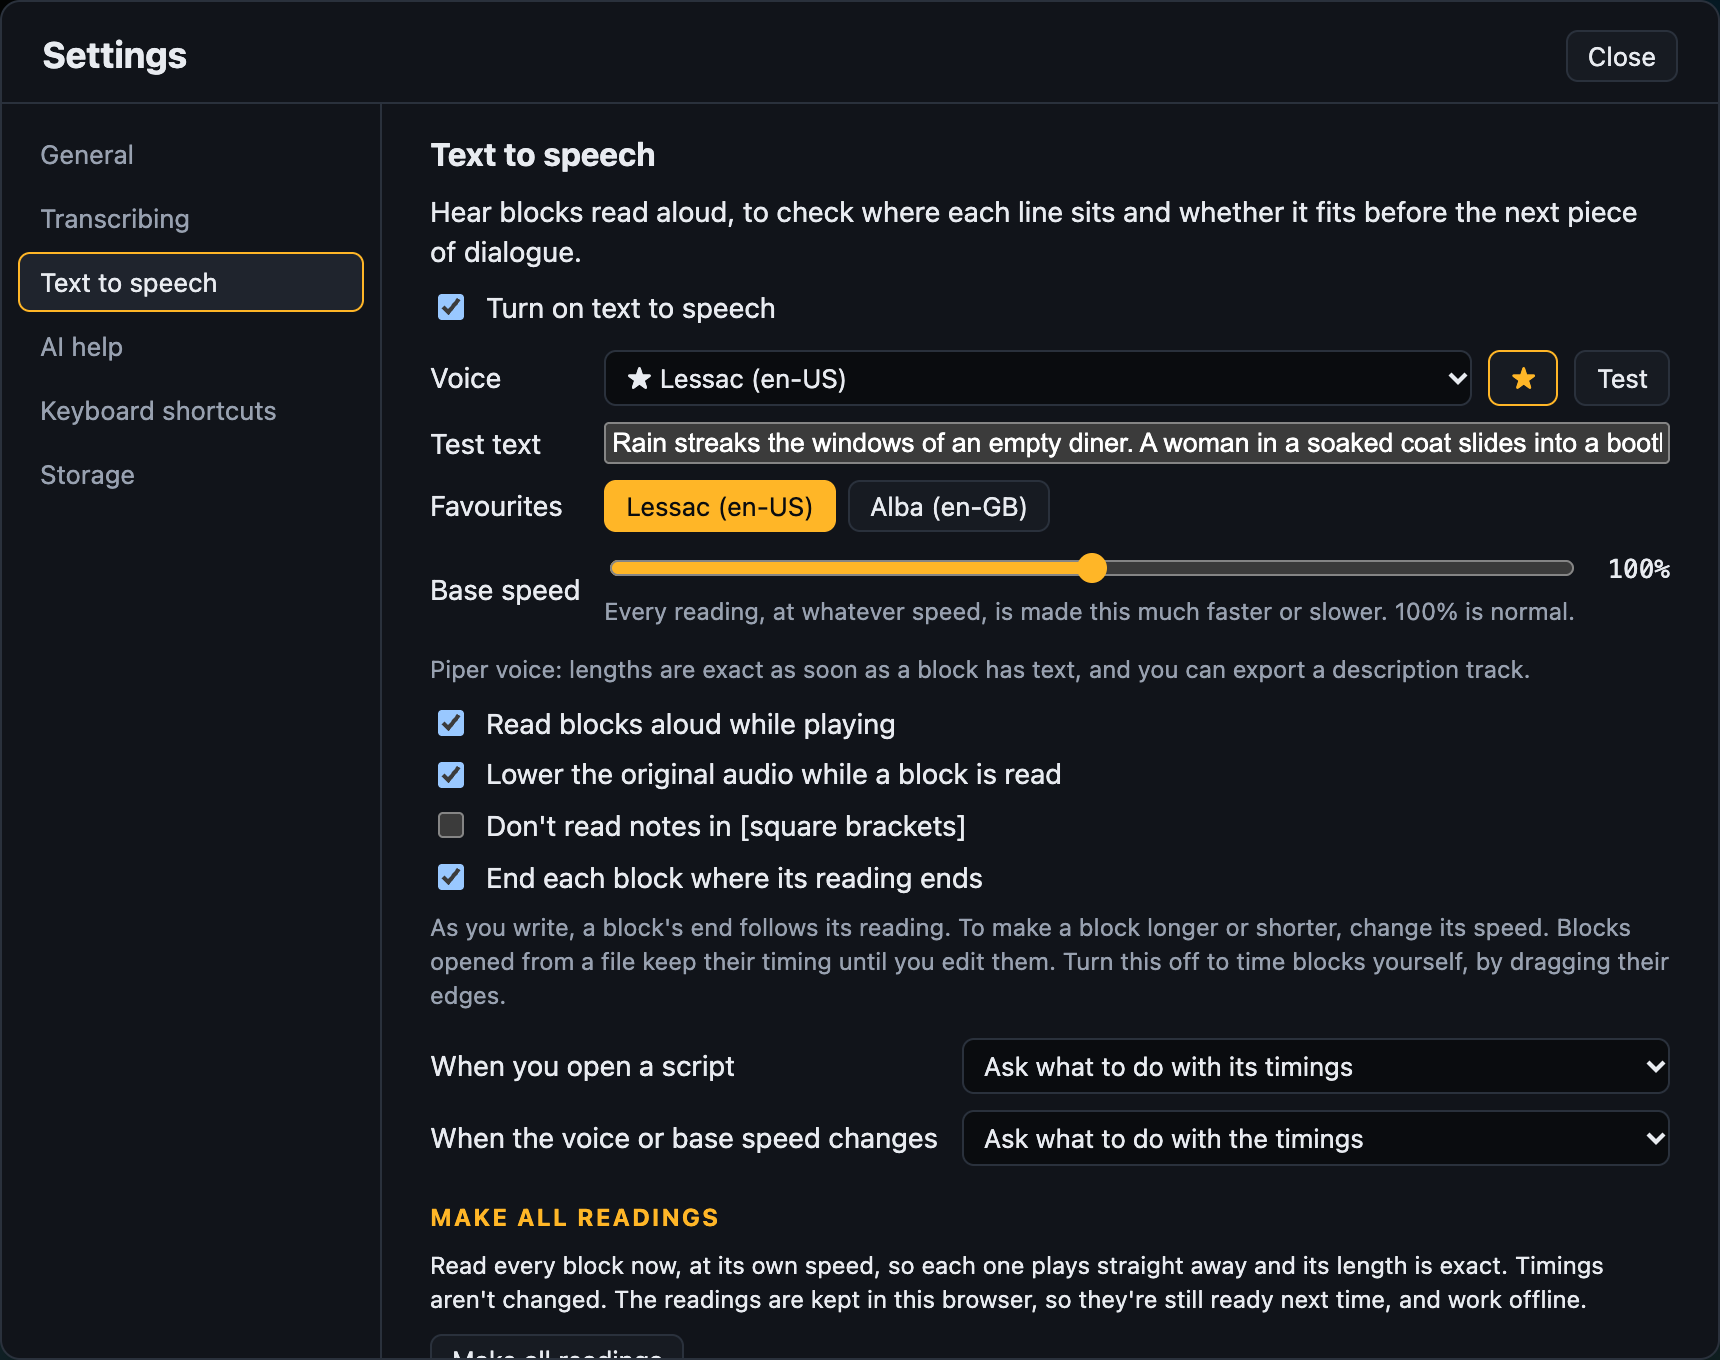
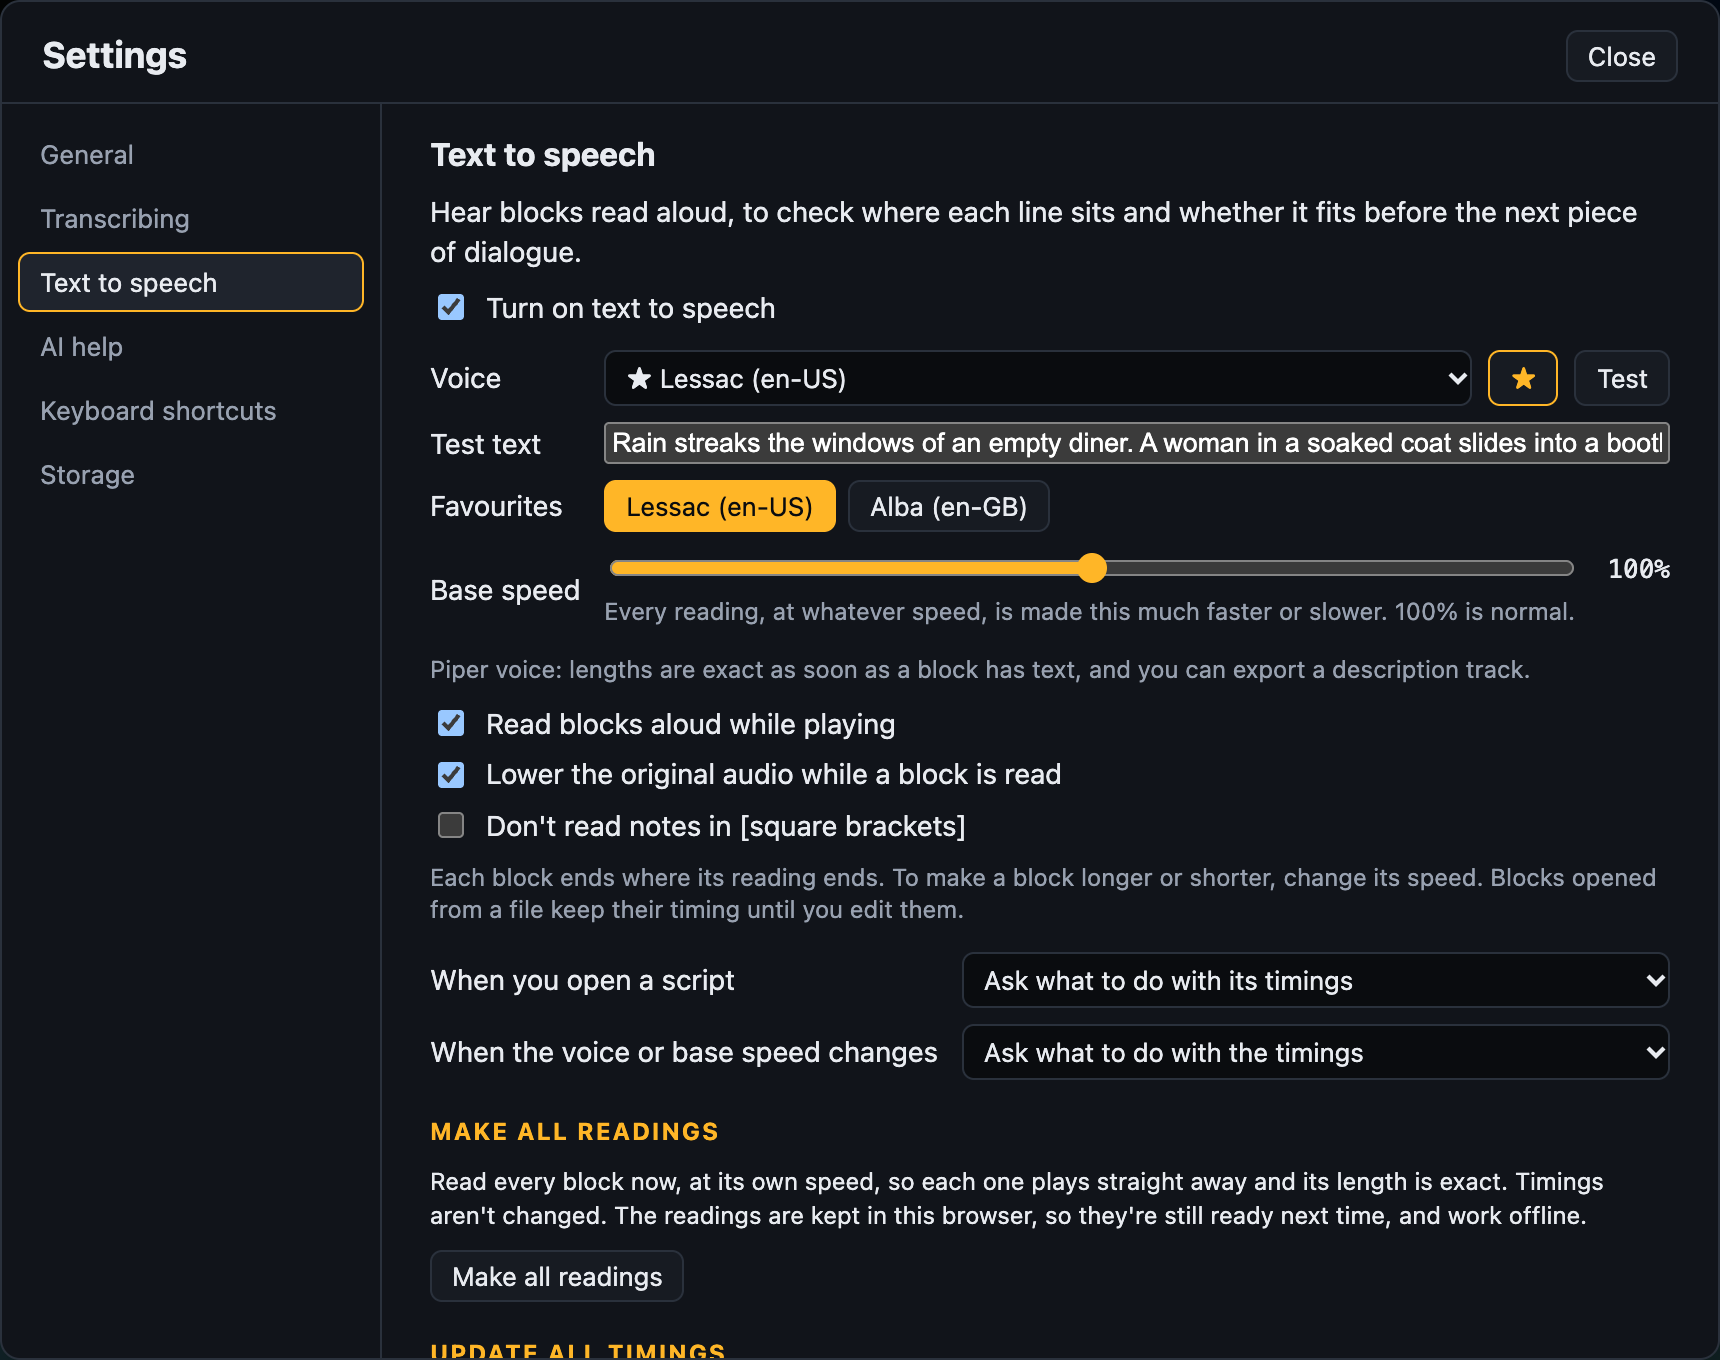
Always end blocks where their reading ends with text to speech on
Removes the option to time blocks by hand in Write mode with text to
speech on, so a block's length always comes from its reading and speed.
Edges still drag in Transcribe mode and with text to speech off. The
per-block voice examples now speak of translated dialogue rather than
subtitles.

Changed region(s): [[0.2465, 0.6176, 0.986, 1.0], [0.7703, 0.6176, 0.9552, 0.6485], [0.9552, 0.7721, 0.986, 0.8029]]

diff --git a/app/js/app.js b/app/js/app.js
@@ -443,7 +443,7 @@ function newCue() {
   pushUndo();
   const c = mk(t, end);
   // A block written with text to speech on takes its end from the reading.
-  if (ttsOn() && tts.autoEnd) c.auto = true;
+  if (ttsOn()) c.auto = true;
   S.cues.push(c);
   changed();
   select(c.id, { seek: false });
@@ -559,7 +559,7 @@ function updateEditor() {
   // The end comes from the reading with text to speech on.
   edEnd.readOnly = following(c);
   if (edEnd.readOnly) edEnd.dataset.tip = 'Where the reading ends. Change the block’s speed to move it'; else delete edEnd.dataset.tip;
-  edAuto.hidden = !(c.auto && ttsOn() && tts.autoEnd);
+  edAuto.hidden = !(c.auto && ttsOn());
   edDur.textContent = `${(c.end - c.start).toFixed(3)} s`;
   edSpeedWrap.hidden = !ttsOn();
   edVoiceWrap.hidden = !ttsOn();
@@ -1489,7 +1489,7 @@ function speakBlock(fit) {
       const room = cur.end - cur.start;
       if (now() >= cur.end) pause(); else S.playUntil = cur.end;
       // An auto block has just been refitted to this reading.
-      if (cur.auto && tts.autoEnd && room + 0.0005 >= secs) return toast(`Reading takes ${secs.toFixed(1)} s. The block now ends where the reading finishes`);
+      if (cur.auto && room + 0.0005 >= secs) return toast(`Reading takes ${secs.toFixed(1)} s. The block now ends where the reading finishes`);
       toast(secs > room + 0.05
         ? `Reading takes ${secs.toFixed(1)} s, ${(secs - room).toFixed(1)} s longer than the block. ⇧V fits the block to it`
         : `Reading takes ${secs.toFixed(1)} s and fits, with ${(room - secs).toFixed(1)} s to spare`);
@@ -1506,7 +1506,7 @@ function fitToSpeech(c, secs) {
   c.end = end;
   // The end now follows the reading, not the other way round, including as the text changes.
   delete c.fit;
-  if (tts.autoEnd) c.auto = true;
+  c.auto = true;
   select(c.id, { seek: false });
   changed(c.id);
   toast(c.start + secs > hi + 0.001
@@ -1517,7 +1517,7 @@ function fitToSpeech(c, secs) {
 // Blocks marked auto take their end from how long the reading takes, until the end is
 // set by hand. It never runs into the next block.
 function fitAuto(c) {
-  if (!c?.auto || !ttsOn() || !tts.autoEnd || !spoken(c.text)) return false;
+  if (!c?.auto || !ttsOn() || !spoken(c.text)) return false;
   const i = idx(c.id);
   if (i < 0) return false;
   const { hi } = bounds(i);
@@ -1527,9 +1527,8 @@ function fitAuto(c) {
   return true;
 }
 // With text to speech on, a block with text ends where its reading does, as in Frazier:
-// its length changes with its text and speed, not by hand. With "Set the end of each
-// block from its reading" off, blocks are timed by hand instead.
-const following = (c) => ttsOn() && tts.autoEnd && !!spoken(c.text);
+// its length changes with its text and speed, not by hand.
+const following = (c) => ttsOn() && !!spoken(c.text);
 function adapt(c) {
   if (!following(c)) return;
   delete c.fit;
@@ -1695,7 +1694,7 @@ async function updateAllTimings(ask = true) {
     if (!exact) estimated++;
     // From now on the end follows the reading, as the text changes, as in a new block.
     delete c.fit;
-    if (tts.autoEnd) c.auto = true;
+    c.auto = true;
     if (Math.abs(end - c.end) > 0.0005) { c.end = end; moved++; }
   }
   changed();
@@ -1926,14 +1925,14 @@ function setBlockSpeed(c, v) {
   delete c.fit;
   if (c.speed) c.pinned = true; else delete c.pinned;
   // The speed was picked, so the end follows the reading instead.
-  if (tts.autoEnd) c.auto = true;
+  c.auto = true;
   fitAuto(c);
   changed(c.id);
   tlDirty = true;
   toast(c.speed ? `Block #${idx(c.id) + 1} reads at ${speedName(c.speed)}`
     : `Block #${idx(c.id) + 1} reads at normal speed`);
 }
-// A block's own voice, such as a second voice for subtitles. Without one, a block reads
+// A block's own voice, such as a second voice for translated dialogue. Without one, a block reads
 // with the voice chosen in Settings, and follows it when that changes.
 const edVoice = $('edVoice'), edVoiceWrap = $('edVoiceWrap');
 const blockVoiceName = (uri) => { const n = voiceName(uri); return n === 'the voice before' ? voiceLabel(uri) : n; };

diff --git a/app/index.html b/app/index.html
@@ -71,7 +71,7 @@
           <span id="edDur" class="dim"></span>
           <label id="edSpeedWrap" class="edspeed" hidden data-tip="Text to speech speed for this block. [ and ] change it">TTS
             <select id="edSpeed"></select></label>
-          <label id="edVoiceWrap" class="edspeed" hidden data-tip="Text to speech voice for this block, such as a second voice for subtitles. Same as Settings follows the voice chosen there">Voice
+          <label id="edVoiceWrap" class="edspeed" hidden data-tip="Text to speech voice for this block, such as a second voice for translated dialogue. Same as Settings follows the voice chosen there">Voice
             <select id="edVoice"></select></label>
           <button id="edSay" class="edsay" hidden data-tip="How text to speech says words in this block, without changing the text (⌥⇧P)">sounds like</button>
           <span class="grow"></span>
@@ -325,7 +325,6 @@ docker compose up -d --build</code></pre>
         </div>
         <label class="updopt"><input type="checkbox" id="wzNotes"> Don't read notes in [square brackets]</label>
         <label class="updopt"><input type="checkbox" id="wzLive"> Read blocks aloud while playing</label>
-        <label class="updopt"><input type="checkbox" id="wzAuto"> End each block where its reading ends</label>
       </div>
       <h3>Editing</h3>
       <label class="updopt"><input type="checkbox" id="wzReplayWrite"> Go back to a block's start after I edit it, to hear it again</label>
@@ -524,10 +523,8 @@ docker compose up -d --build</code></pre>
       <label class="updopt"><input type="checkbox" id="ttsLive"> Read blocks aloud while playing</label>
       <label class="updopt"><input type="checkbox" id="ttsDuck"> Lower the original audio while a block is read</label>
       <label class="updopt"><input type="checkbox" id="ttsNotes"> Don't read notes in [square brackets]</label>
-      <label class="updopt"><input type="checkbox" id="ttsAuto"> End each block where its reading ends</label>
-      <p class="dim small">As you write, a block's end follows its reading. To make a block longer or shorter, change
-        its speed. Blocks opened from a file keep their timing until you edit them. Turn this off to time blocks
-        yourself, by dragging their edges.</p>
+      <p class="dim small">Each block ends where its reading ends. To make a block longer or shorter, change its speed.
+        Blocks opened from a file keep their timing until you edit them.</p>
       <div class="ttsgrid">
         <label for="ttsImport">When you open a script</label>
         <select id="ttsImport">
@@ -826,7 +823,7 @@ docker compose up -d --build</code></pre>
           </dl>
           <h3>Mouse</h3>
           <dl>
-            <dt>Drag block</dt><dd>Move · drag an edge to resize, with text to speech off</dd>
+            <dt>Drag block</dt><dd>Move · drag an edge to resize, except with text to speech on</dd>
             <dt>Drag empty lane</dt><dd>Draw a new block</dd>
             <dt>× in the list</dt><dd>Delete that block (undoable)</dd>
             <dt>Buttons under video</dt><dd>Block, 3 s and frame steps, play, play block, loop block</dd>

diff --git a/app/js/tts.js b/app/js/tts.js
@@ -361,7 +361,7 @@ export function mergeSay(say = [], add = []) {
 export const hasWord = (text, word) => !!word.trim() && sayPattern([word.trim()]).test(text);
 
 const KEY = 'scribecue.tts';
-const DEFAULTS = { on: false, voice: '', base: 1, live: true, duck: true, autoEnd: true, skipNotes: false, onImport: 'ask', onChange: 'ask', online: false, cps: {}, mix: 0, favourites: [], sample: null };
+const DEFAULTS = { on: false, voice: '', base: 1, live: true, duck: true, skipNotes: false, onImport: 'ask', onChange: 'ask', online: false, cps: {}, mix: 0, favourites: [], sample: null };
 const $ = (id) => document.getElementById(id);
 
 export const tts = {
@@ -391,8 +391,8 @@ if (!['ask', 'ends', 'leave'].includes(tts.onChange)) tts.onChange = 'ask';
 const rate = (speed) => atBase(speed, tts.base);
 
 const save = () => {
-  const { on, voice, base, live, duck, autoEnd, skipNotes, onImport, onChange, online, cps, mix, favourites, sample } = tts;
-  try { localStorage.setItem(KEY, JSON.stringify({ on, voice, base, live, duck, autoEnd, skipNotes, onImport, onChange, online, cps, mix, favourites, sample })); } catch { /* ignore */ }
+  const { on, voice, base, live, duck, skipNotes, onImport, onChange, online, cps, mix, favourites, sample } = tts;
+  try { localStorage.setItem(KEY, JSON.stringify({ on, voice, base, live, duck, skipNotes, onImport, onChange, online, cps, mix, favourites, sample })); } catch { /* ignore */ }
 };
 
 // The mix between the video's sound and the readings, from −1 (only the video) to 1
@@ -1194,7 +1194,7 @@ function render(googleError = '') {
   showGoogleCost();
   $('ttsExport').disabled = !piper;
   $('ttsMakeAll').disabled = !piper;
-  // Blocks with their own voice, such as subtitles read by a second voice.
+  // Blocks with their own voice, such as translated dialogue read by a second voice.
   const own = hooks.blockVoices();
   $('ttsBlockVoices').hidden = !own.length;
   const names = [...new Set(own)].map((uri) => voices.find((v) => v.voiceURI === uri)?.name || voiceLabel(uri));
@@ -1206,7 +1206,6 @@ function render(googleError = '') {
   $('ttsBaseOut').textContent = `${Math.round(tts.base * 100)}%`;
   $('ttsLive').checked = tts.live;
   $('ttsDuck').checked = tts.duck;
-  $('ttsAuto').checked = tts.autoEnd;
   $('ttsNotes').checked = tts.skipNotes;
   $('ttsImport').value = tts.onImport;
   $('ttsOnChange').value = tts.onChange;
@@ -1263,7 +1262,6 @@ export function initTts(h) {
   base.addEventListener('dblclick', () => changeReading('base', 1));
   $('ttsLive').addEventListener('change', (e) => set('live', e.target.checked));
   $('ttsDuck').addEventListener('change', (e) => set('duck', e.target.checked));
-  $('ttsAuto').addEventListener('change', (e) => set('autoEnd', e.target.checked));
   $('ttsNotes').addEventListener('change', (e) => set('skipNotes', e.target.checked));
   $('ttsImport').addEventListener('change', (e) => set('onImport', e.target.value));
   $('ttsOnChange').addEventListener('change', (e) => set('onChange', e.target.value));

diff --git a/app/js/welcome.js b/app/js/welcome.js
@@ -65,7 +65,6 @@ function finish() {
       if ($('wzVoice').value) setTtsOption('voice', $('wzVoice').value);
       setTtsOption('base', toBase(+$('wzSpeed').value));
       setTtsOption('live', $('wzLive').checked);
-      setTtsOption('autoEnd', $('wzAuto').checked);
       setTtsOption('skipNotes', $('wzNotes').checked);
     }
   }
@@ -97,7 +96,6 @@ export function openWelcome() {
   if (![...ws.options].some((o) => +o.value === tts.base)) ws.add(new Option(`${Math.round(tts.base * 100)}%`, String(tts.base)));
   ws.value = String(tts.base);
   $('wzLive').checked = tts.live;
-  $('wzAuto').checked = tts.autoEnd;
   $('wzNotes').checked = tts.skipNotes;
   $('wzPiperGet').checked = false; // a large download: only when asked for
 

diff --git a/app/js/formats.js b/app/js/formats.js
@@ -113,7 +113,7 @@ export function parseAdc(text) {
     const speed = ADC_SPEEDS[c.speed] ?? 1;
     if (speed !== 1) cue.speed = speed;
     // Frazier names a Google voice for every block; one other than the document's is the
-    // block's own, such as a second voice for subtitles.
+    // block's own, such as a second voice for translated dialogue.
     if (typeof c.voice === 'string' && /^[a-z]{2,3}-[A-Z]{2}-\w+-\w+$/.test(c.voice) && c.voice !== doc.voice) cue.voice = 'google:' + c.voice;
     if (say.length) cue.say = say;
     return cue;

diff --git a/README.md b/README.md
@@ -342,7 +342,7 @@ click it to take it out.
   on the timeline, such as `+15%`. Block speeds are saved with your work and in exported VTT
   files, as notes that other programs ignore. SRT files can't store them.
 - **Voice per block:** a block can have a voice of its own, such as a second voice for
-  subtitles. Pick it from the **Voice** menu in the block editor; **Same as Settings**
+  translated dialogue. Pick it from the **Voice** menu in the block editor; **Same as Settings**
   reads it with the voice chosen in the text to speech settings, and follows it when that
   changes. Blocks with their own voice show its name in the list. They're saved with your
   work and in exported VTT files, and Frazier's `.adc` scripts bring theirs. The text to
@@ -381,9 +381,7 @@ click it to take it out.
   longer or shorter, change its speed, from its menu or with `[` `]`. Its edges can't be
   dragged, and OUT shows where the reading ends; moving a block, or changing its IN, moves
   the whole block. Blocks opened from a file keep their timing until you edit them. A
-  reading only runs over its block, shown in red, when the next block is in the way. Turn
-  this off with **End each block where its reading ends** in the text to speech settings,
-  to time blocks yourself by dragging their edges.
+  reading only runs over its block, shown in red, when the next block is in the way.
 - **Sounds like:** when a voice says a name or word wrong, tell it how to say it, without
   changing the text. Select the word in the text box and click the **Sounds Like** button
   that pops up under it, or press `Alt+Shift+P`. The word is filled in for you, so spell
@@ -607,8 +605,8 @@ afterwards is instant. Safari switches tracks itself.
   the playhead, press `A` or `S`.
 - **Time remaining:** click the total length, next to the clock, to show the time left
   instead. Click it again to go back. Scribecue remembers which you chose.
-- **Mouse:** drag a block to move it, drag an edge to resize it (with text to speech
-  off; with it on, a block's length comes from its reading), or drag across empty
+- **Mouse:** drag a block to move it, drag an edge to resize it (in Write mode with text
+  to speech on, a block's length comes from its reading instead), or drag across empty
   space to draw a new block. Scroll to pan, and `Ctrl/Cmd`+scroll or pinch to zoom.
 - **Guided tour:** lights up each part of the editor in turn and explains it, from the two
   modes to text to speech, AI help and privacy. It opens on your first visit, before the
